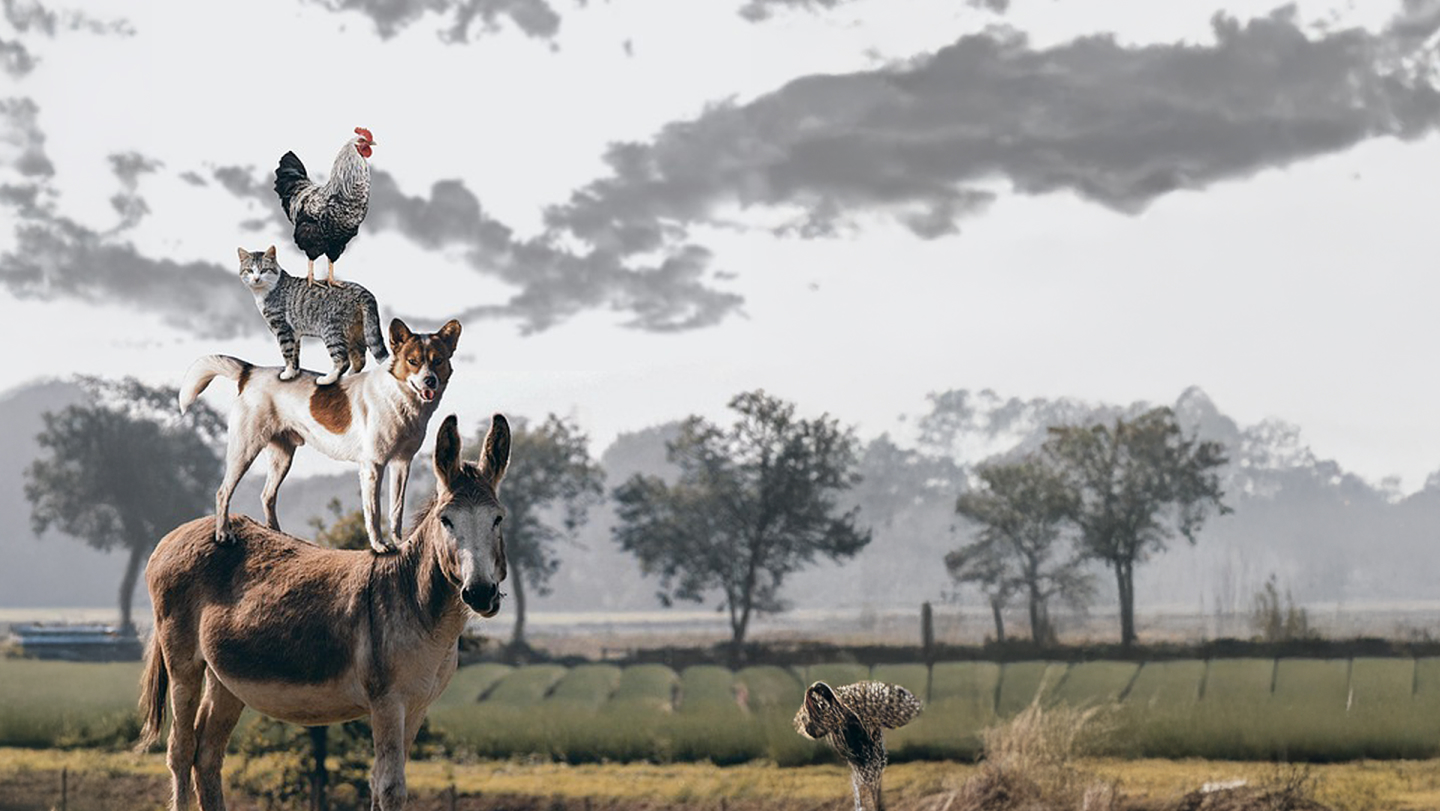
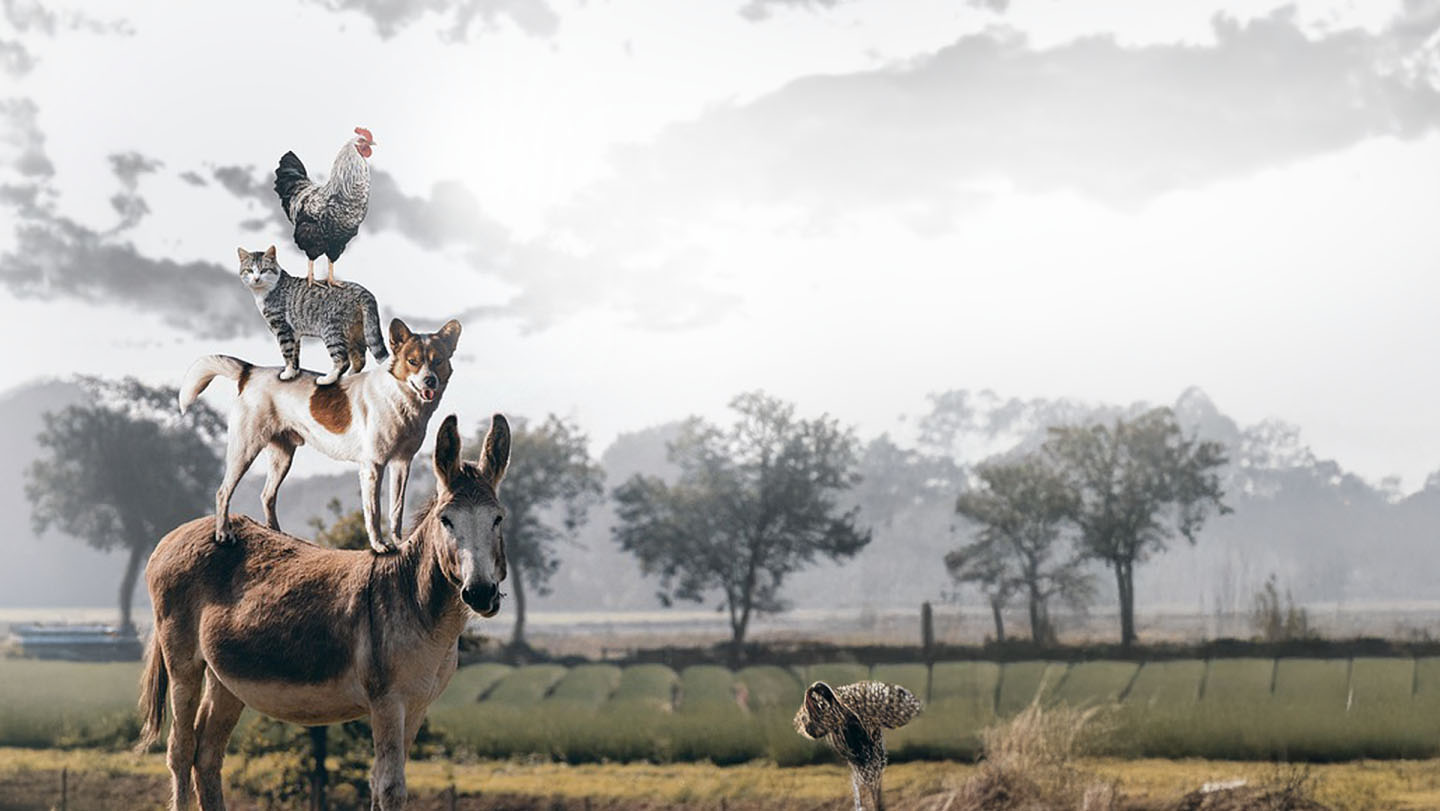
first commit

diff --git a/style.css b/style.css
@@ -1,6 +1,6 @@
 body{
   margin: 0;
-}
+  font-family:sans-serif, pretendard;
 
 .simbol{
   width: 50px; /* 로고의 가로 크기 */
@@ -28,18 +28,17 @@ letter-spacing: -1px
 line-height: 1;
 }
 .text-type2{
-  font-size: 7.5vw;
+  font-size: 7vw;
   font-weight:800;
-  color: #825419;
+  color: #b1761c;
   }
 
 .text-type3{
-    font-size: 3vw;
+    font-size: 2.5vw;
     font-weight: 600;
     text-align: left;
     margin-left: 10px;
-    color: #432804;
-    letter-spacing: -1px
+    color: #040404;
     }
 
 